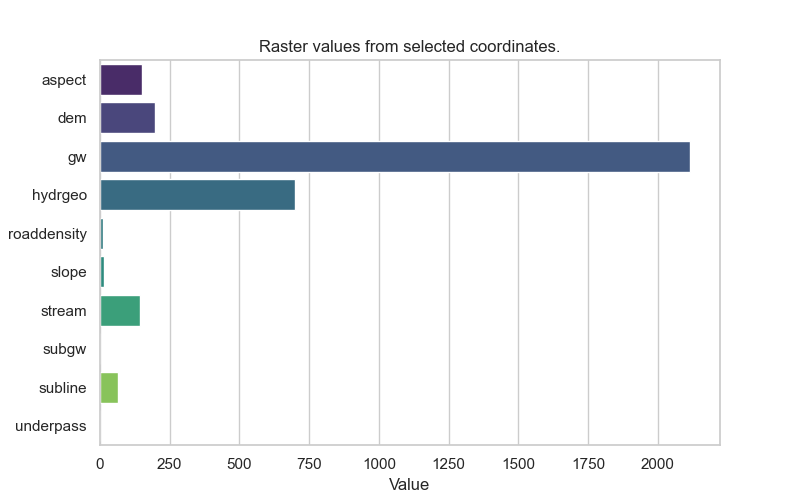
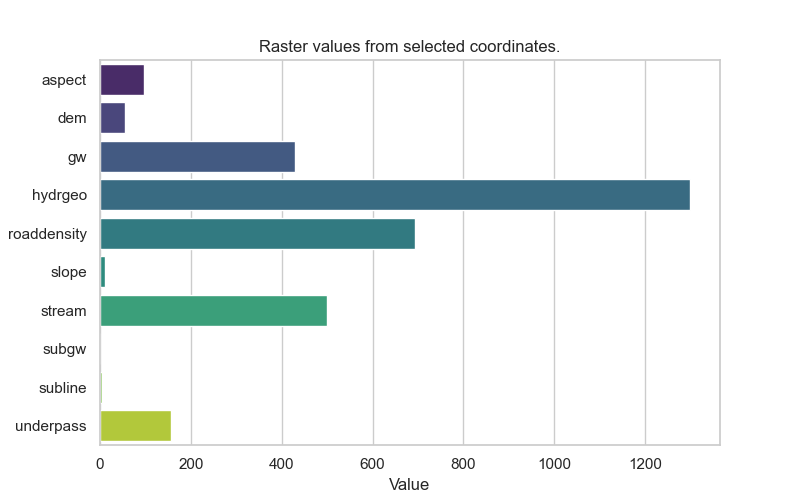
chart js 기능 추가-미완성

diff --git a/templates/index.html b/templates/index.html
@@ -93,7 +93,7 @@
             </div>
 
             <div class="card mt-1">
-                <div class="card-header" style="height: 50px;">
+                <div class="card-header myfont" style="height: 50px;">
                     <p class="align-middle">예측 결과: 서울특별시 경계지도에서 마우스로 지점을 선택하세요.</p>
                 </div>
 
@@ -110,6 +110,10 @@
         </div>   
     </section>
     <section>
+        
+        <div class="text-center">
+            <canvas id="myChart"></canvas>
+        </div>
 
     </section>
     
@@ -125,7 +129,12 @@
 
     <script type="text/javascript" src="//dapi.kakao.com/v2/maps/sdk.js?appkey=fd75ba522e33309748e416861c65feef&libraries=services"></script>    
     <script src="http://dmaps.daum.net/map_js_init/postcode.v2.js"></script>
+
+    <script src="https://cdn.jsdelivr.net/npm/chart.js"></script>
     <script>
+
+        var chart_env_name = "";
+        var chart_env_val="";
 
          var mapOptions = {
 
@@ -261,7 +270,15 @@
 
                         $("#loading").hide();
 
-                        console.log(response.results)
+                        console.log(response.results);
+                        console.log(response.env_name);
+                        console.log(response.env_val);
+                       
+
+                        myChart.data.labels = response.env_name;
+                        myChart.data.datasets[0].data = response.env_val;
+
+                        
 
                         if (response.results !==null && response.results == "1등급"){                        
                             $('#result').html('<div ><span class="badge badge-danger">위험</span><h3>씽크홀 발생위험 ' +  response.results + ', 발생위험확률(' + response.pred_val + ')입니다.</h3></div>');
@@ -290,9 +307,10 @@
                         $('#coord').html('<div style-"padding:10;"><h3>선택된 지점은 경도: '+  longitude + ' 위도: ' +  latitude +'</h3></div>');
                         
                         // console.log(e.coord)
-                        e_coord=new naver.maps.LatLng(latitude, longitude)
+                        e_coord=new naver.maps.LatLng(latitude, longitude);
                         searchCoordinateToAddress(e_coord);
 
+                        myChart.update();
                         
                     }
                 });
@@ -671,8 +689,42 @@
             }).open();
         }
 
-        naver.maps.onJSContentLoaded = initGeocoder;
-    
+        naver.maps.onJSContentLoaded = initGeocoder;    
     </script>
+
+   
+
+    <script>
+
+    
+
+    const ctx = document.getElementById('myChart');        
+
+    var myChart = new Chart(ctx, {
+        type: 'bar',
+        data: {
+        labels: chart_env_name,
+        datasets: [{
+            label: '# of Votes',
+            data: chart_env_val,
+            borderWidth: 1
+        }]
+        },
+        options: {
+
+            indexAxis: 'y',
+        scales: {
+            y: {
+            beginAtZero: true
+            },
+                    }
+        }
+    });
+
+      
+
+    </script>
+
+
 </body>
 </html>

diff --git a/static/data/css/style.css b/static/data/css/style.css
@@ -1,22 +1,19 @@
+@import url('https://fonts.googleapis.com/css2?family=Noto+Sans+KR:wght@400;700&display=swap');
+
+
 *{
     padding:0;
     margin:0;
     box-sizing: border-box;
+
 }
 
 a{
     text-decoration: none;
 }
 
+.myfont {
+    font-family: 'Noto Sans KR', sans-serif;
+    font-weight: 700;      
+}
 
-/* body {
-            
-        width: 100%;
-        height:100vh;
-        background: linear-gradient(rgba(0,0,0, 0.3), rgba(0,0,0,0.3)), url('../../data/img_data/sinkhole_img.jpeg');                
-        background-size: cover; 
-        background-position: center;
-        background-repeat: no-repeat;
-        background-attachment: fixed;
-        
-}     */

diff --git a/server.py b/server.py
@@ -61,9 +61,11 @@ def process_coordinates():
 
         values = [extract_values_from_raster(lat, lon, raster_path) for raster_path in raster_file_paths]
 
+        
+
         r_names = [os.path.basename(raster_path).split('.')[0] for raster_path in raster_file_paths]
         
-        # print(values)
+        print(values)
 
         pred_class = None
         str_val1 = None
@@ -100,7 +102,7 @@ def process_coordinates():
             chart_img = create_bar_chart(r_names, values)
             chart_base64 = base64.b64encode(chart_img.getvalue()).decode('utf-8')
 
-        return jsonify({'chart_base64': chart_base64, 'results': pred_class, 'pred_val' :  str_val1})
+        return jsonify({'chart_base64': chart_base64, 'results': pred_class, 'pred_val' :  str_val1, 'env_name':r_names, 'env_val':values})
 
     except Exception as e:
         return jsonify({'error': str(e)})
@@ -153,7 +155,7 @@ def generate_and_save_plot():
     image_path = os.path.join(IMAGE_DIR, 'seaborn_plot.png')
     sns_plot.figure.savefig(image_path, format='png')
 
-    return image_path   
+    return image_path    
 
 def create_bar_chart(rnames, values): 
 
